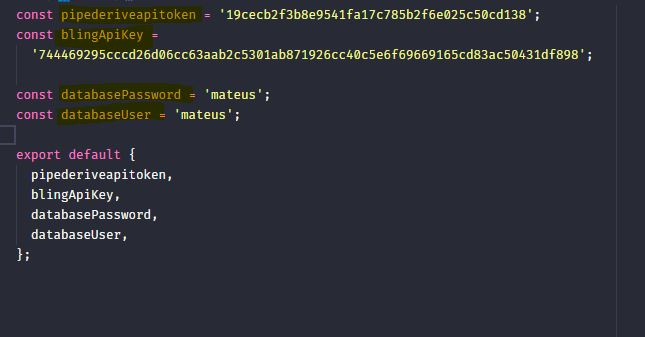
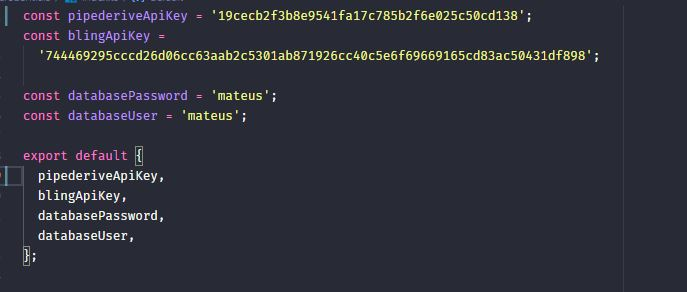
Fixing name convetion and immage credentials

Changed region(s): [[0.0, 0.2466, 0.4031, 0.9247], [0.0, 0.0, 0.9302, 0.2158]]

diff --git a/src/credentials/index.ts b/src/credentials/index.ts
@@ -1,4 +1,4 @@
-const pipederiveapitoken = '19cecb2f3b8e9541fa17c785b2f6e025c50cd138';
+const pipederiveApiKey = '19cecb2f3b8e9541fa17c785b2f6e025c50cd138';
 const blingApiKey =
[1 lines of base64/hex data omitted]
 
@@ -6,7 +6,7 @@ const databasePassword = 'mateus';
 const databaseUser = 'mateus';
 
 export default {
-  pipederiveapitoken,
+  pipederiveApiKey,
   blingApiKey,
   databasePassword,
   databaseUser,

diff --git a/src/services/CreateOpportunities.ts b/src/services/CreateOpportunities.ts
@@ -17,7 +17,7 @@ interface Deal {
 class CreateOpportunities {
   public async execute(): Promise<Omit<Deal, 'xml'>> {
     const pipeResponse = await pipedriveApi.get('', {
-      params: { api_token: credentials.pipederiveapitoken },
+      params: { api_token: credentials.pipederiveApiKey },
     });
 
     const newResponse = pipeResponse.data;
